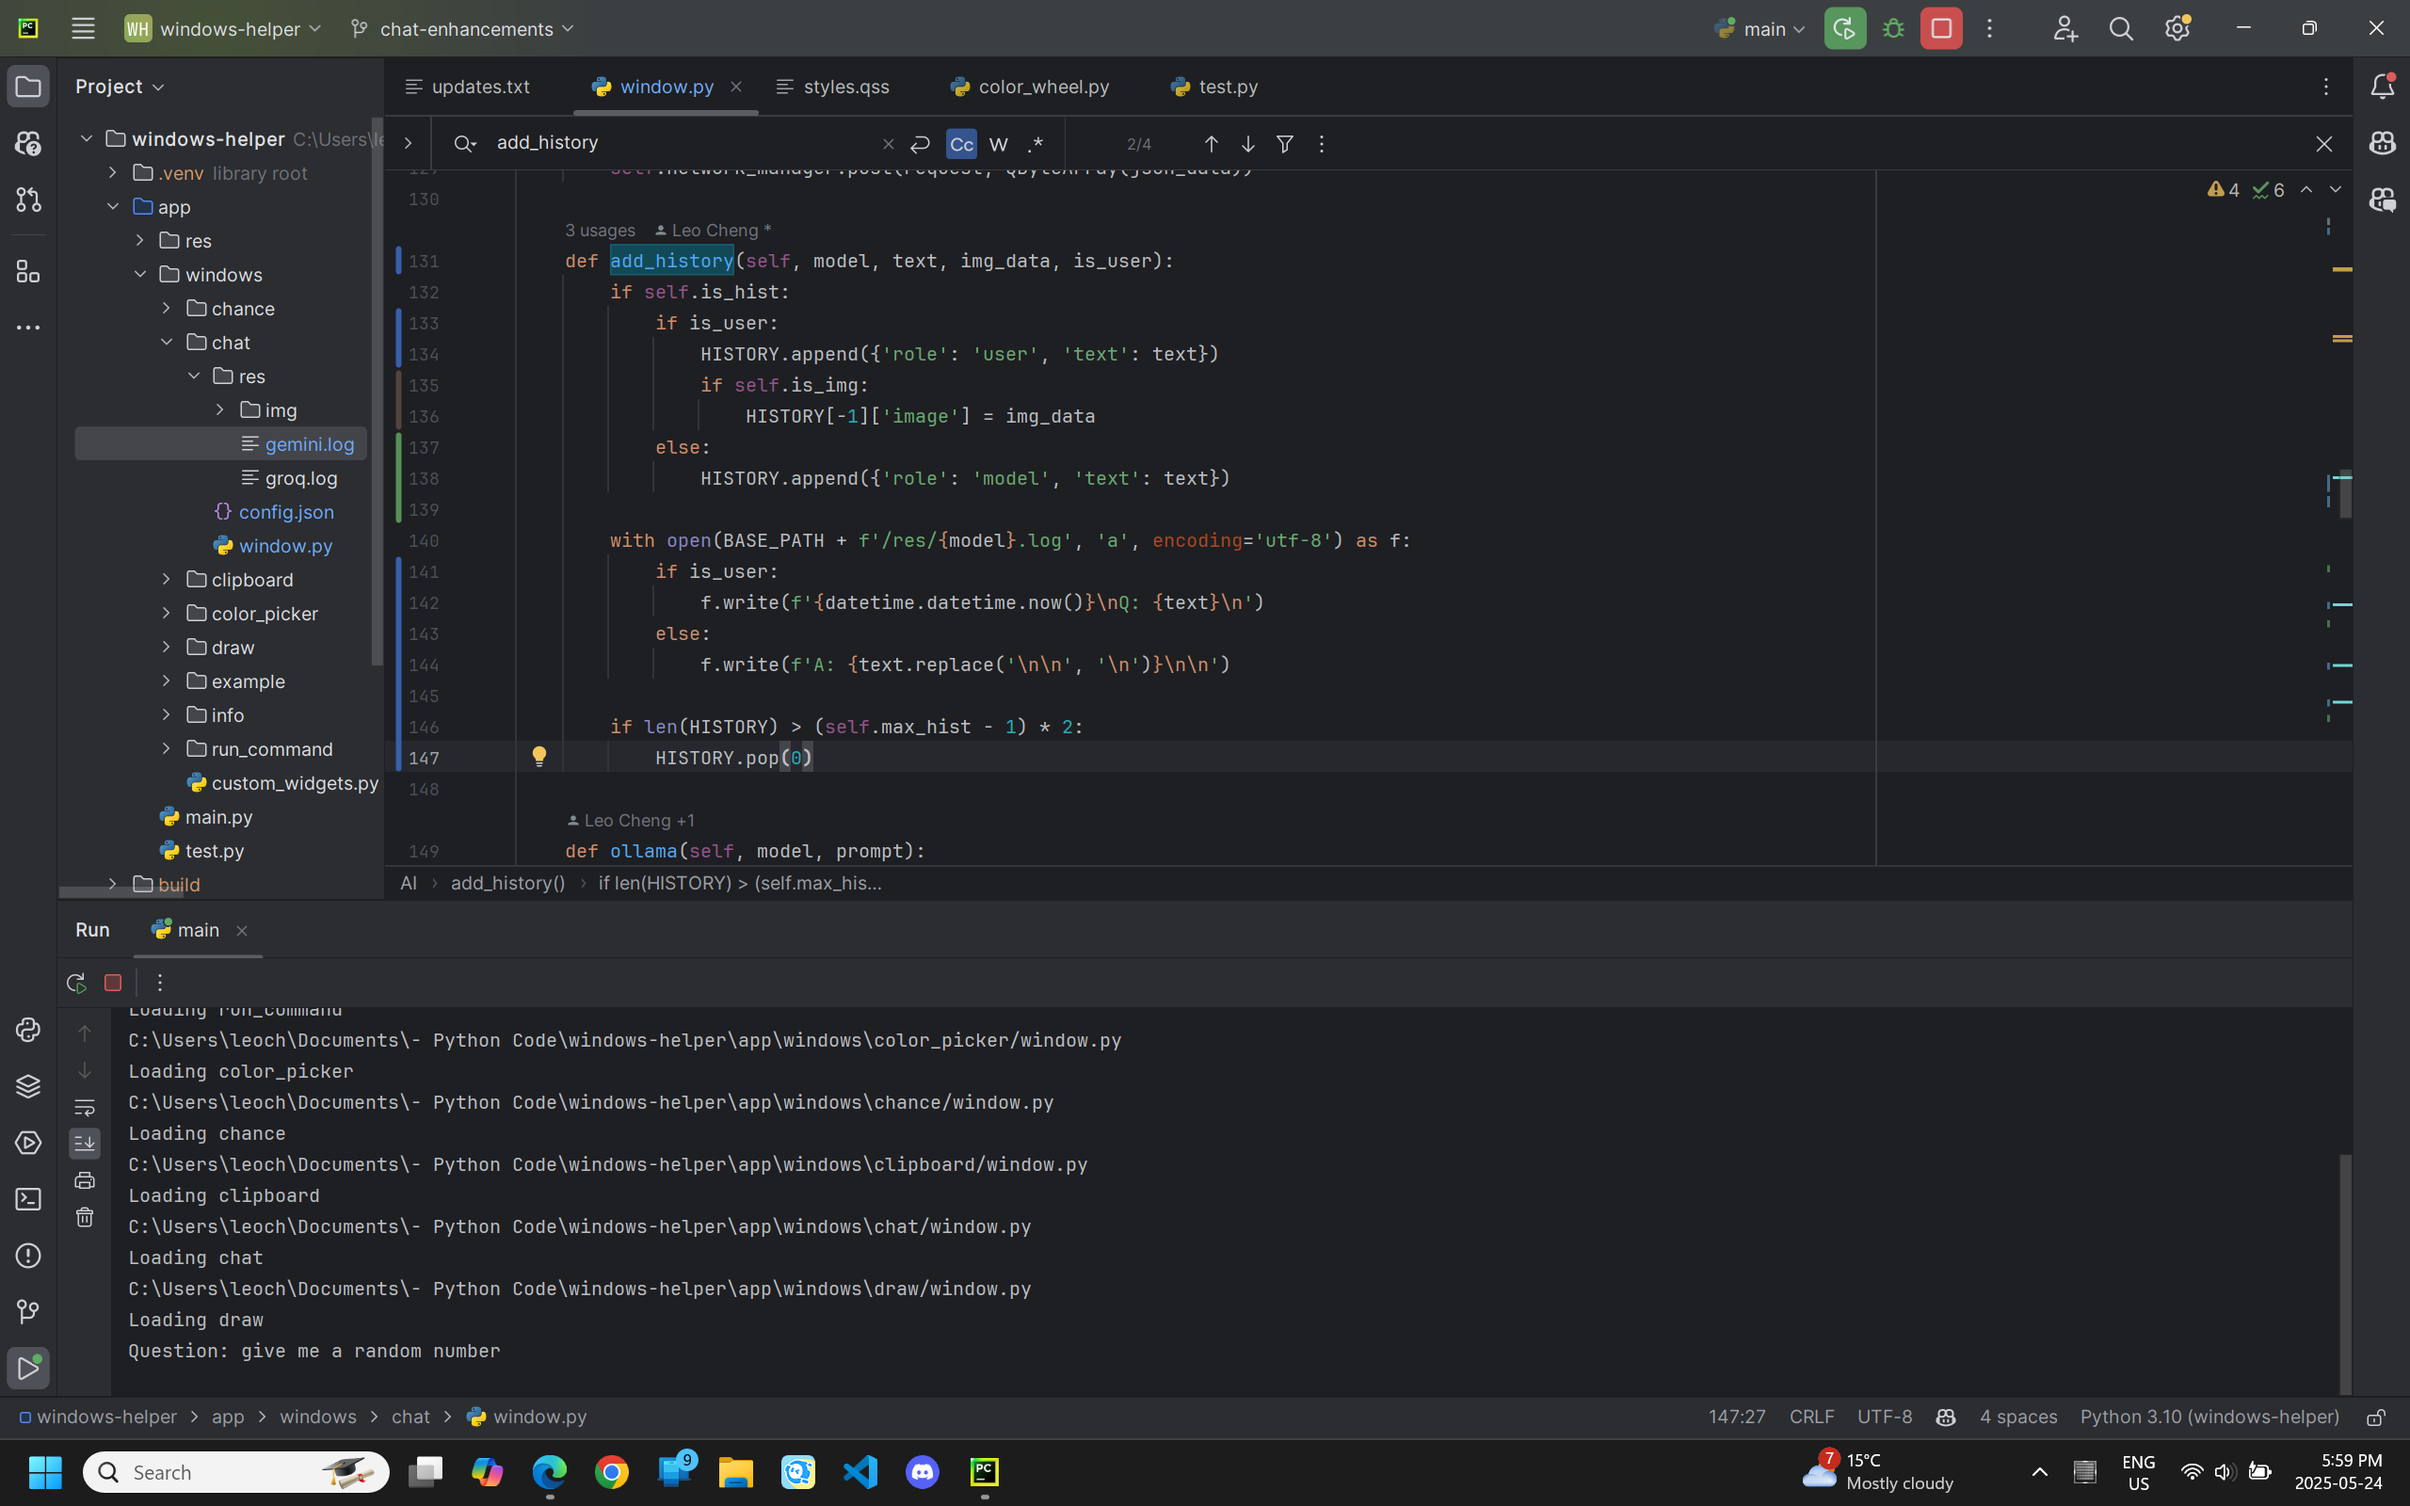
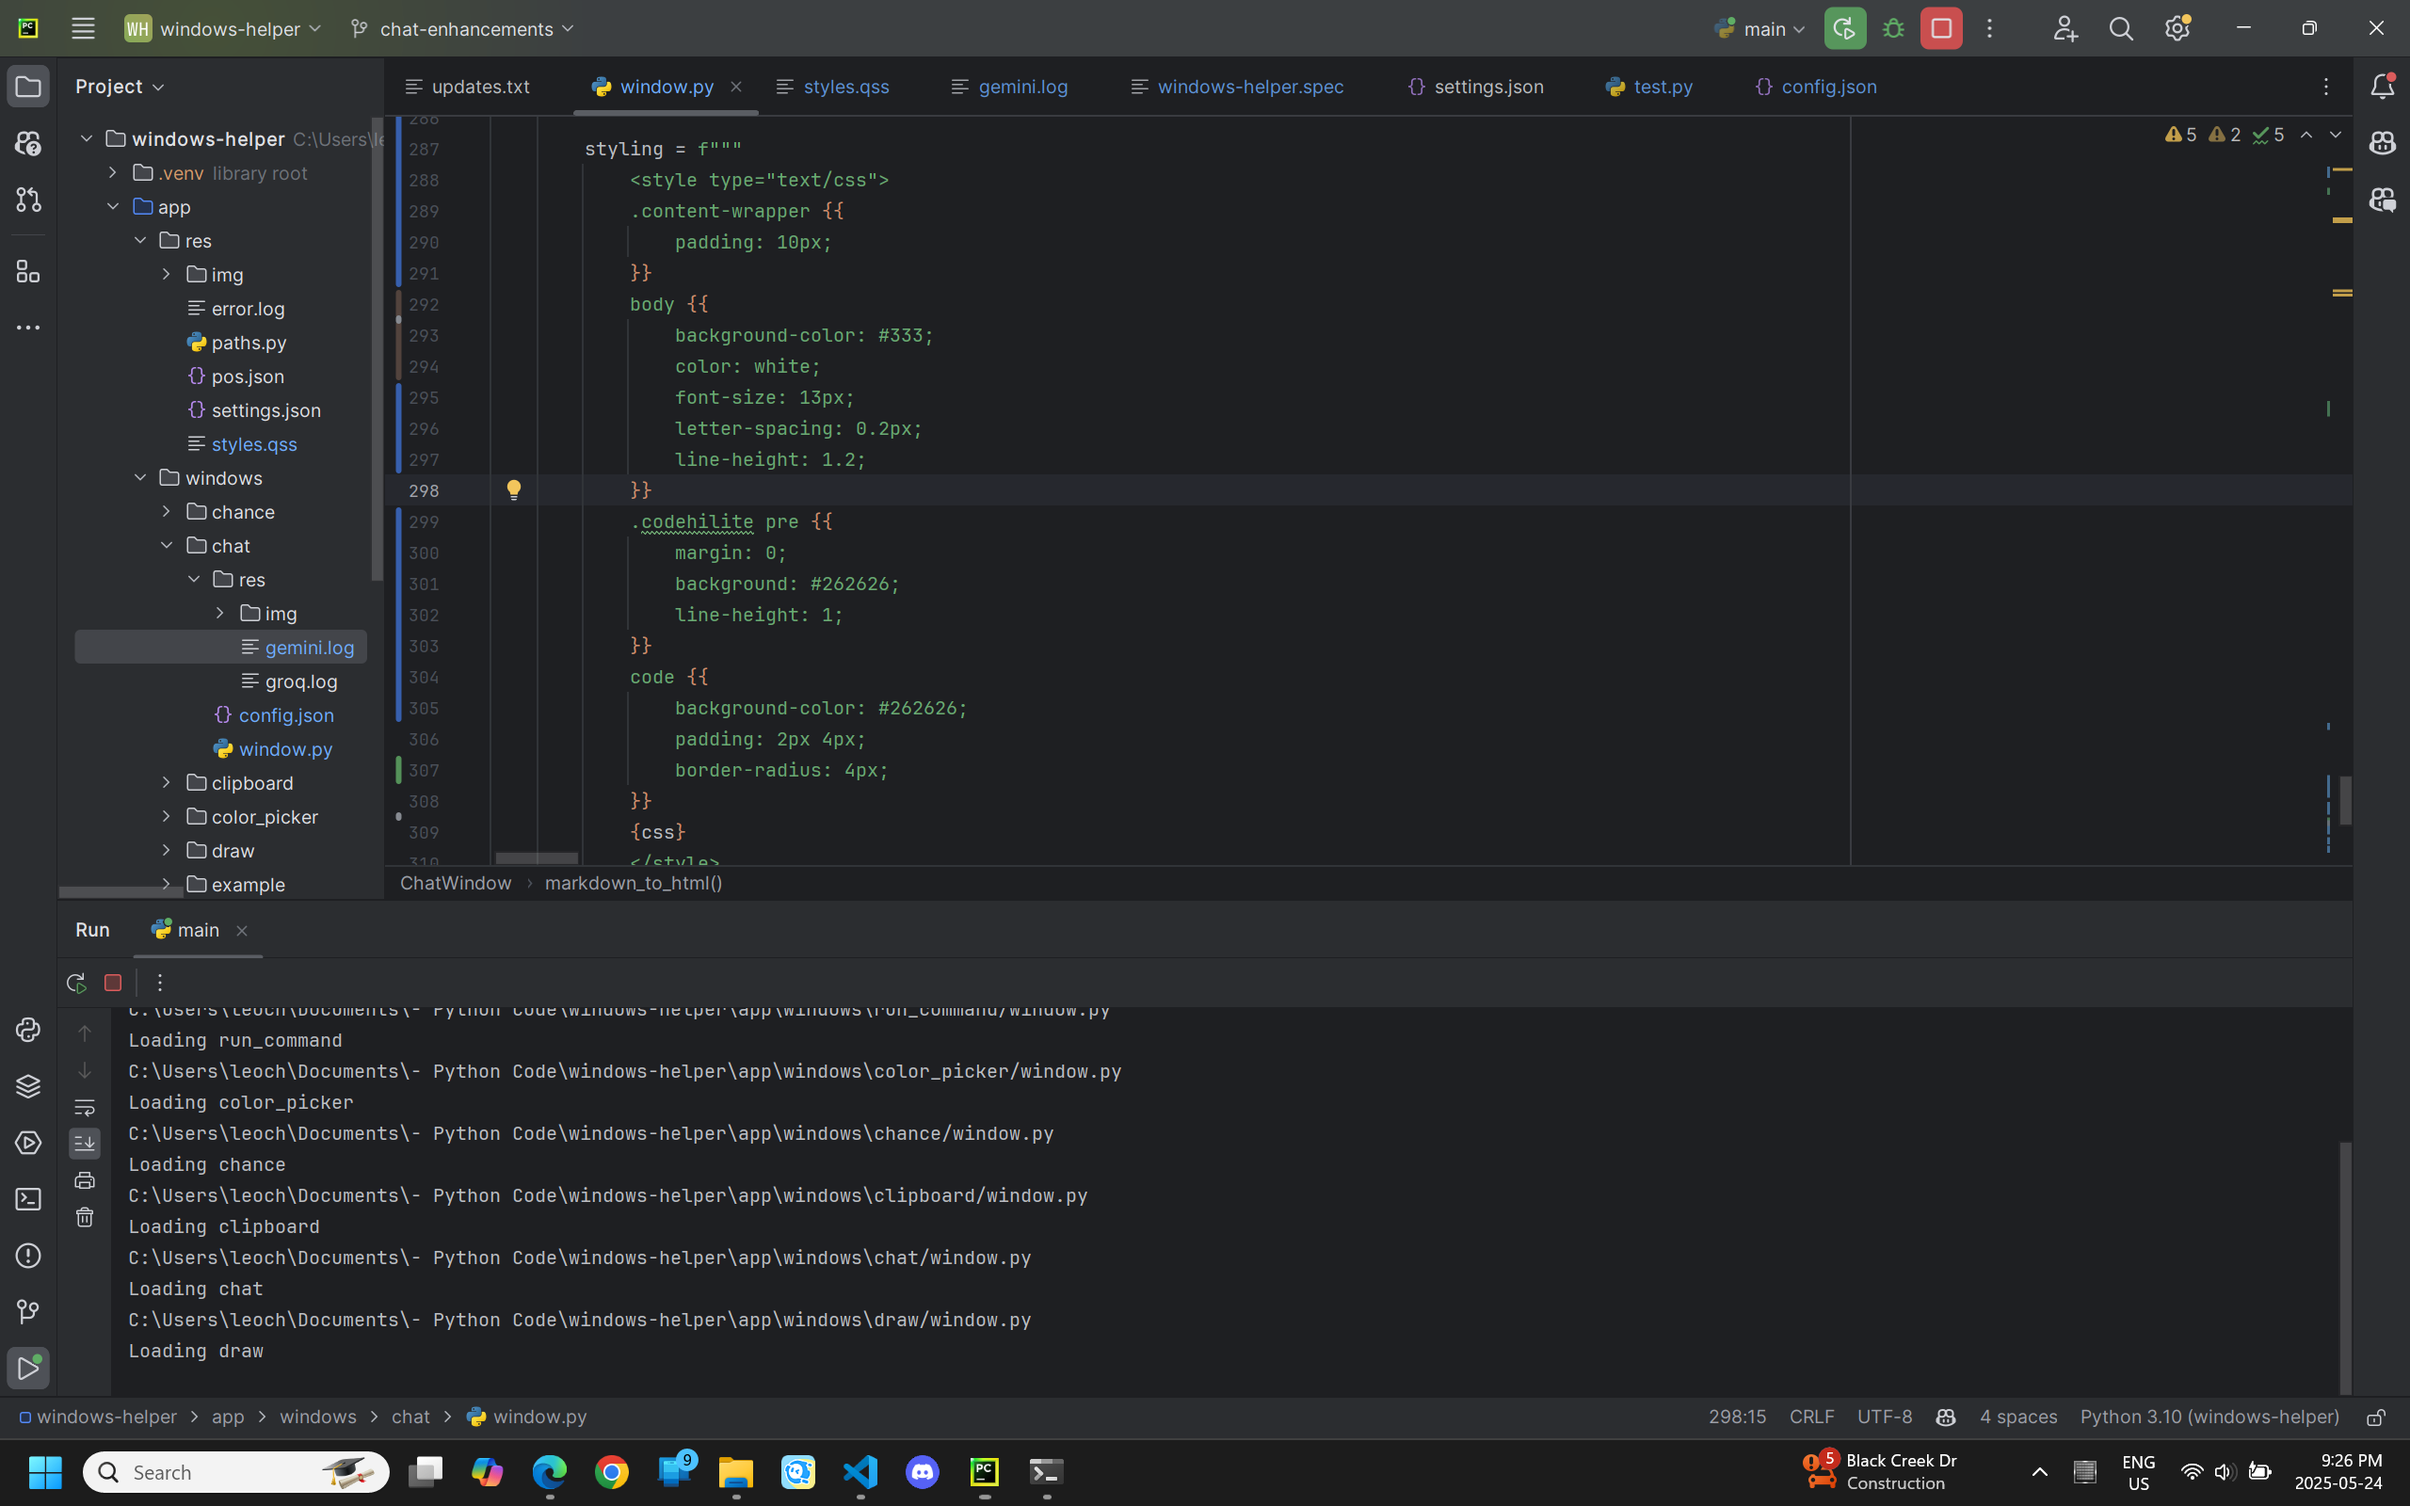
dont use WebEngineView

diff --git a/app/windows/chat/window.py b/app/windows/chat/window.py
@@ -8,8 +8,7 @@ from pygments.formatters.html import HtmlFormatter
 from PySide6.QtCore import QTimer, QRect, QUrl, QByteArray
 from PySide6.QtGui import QGuiApplication
 from PySide6.QtNetwork import QNetworkAccessManager, QNetworkRequest, QNetworkReply
-from PySide6.QtWebEngineWidgets import QWebEngineView
-from PySide6.QtWidgets import QPushButton, QComboBox, QLineEdit, QHBoxLayout, QVBoxLayout, QApplication
+from PySide6.QtWidgets import QPushButton, QComboBox, QLineEdit, QHBoxLayout, QVBoxLayout, QApplication, QTextBrowser
 
 from windows.custom_widgets import CustomWindow
 
@@ -17,6 +16,8 @@ import ollama
 
 BASE_PATH = os.path.dirname(__file__)
 HISTORY = []
+test_response = 'Here\'s a Python solution to the Two Sum problem using a hash map (dictionary) for improved efficiency:\n\n```python\nclass Solution:\n    def twoSum(self, nums: List[int], target: int) -> List[int]:\n        """\n        Finds two numbers in the input list \'nums\' that add up to the \'target\'.\n\n        Args:\n            nums: A list of integers.\n            target: The target sum.\n\n        Returns:\n            A list containing the indices of the two numbers that add up to the target.\n            Returns None if no such pair exists (though problem statement guarantees one).\n        """\n\n        num_map = {}  # Create a hash map (dictionary) to store numbers and their indices\n\n        for index, num in enumerate(nums):\n            complement = target - num  # Calculate the complement needed to reach the target\n\n            if complement in num_map:\n                # If the complement is already in the map, we found our pair!\n                return [num_map[complement], index]  # Return the indices\n\n            num_map[num] = index  # Store the number and its index in the map\n```\n\nKey improvements and explanations:\n\n* **Hash Map (Dictionary):** The solution uses a hash map (`num_map`) to store each number from the `nums` list along with its index. This is crucial for achieving O(n) time complexity.\n* **Efficiency:**  Checking if the `complement` exists in the `num_map` is an O(1) operation on average (very fast) because hash maps provide constant-time lookups.\n* **Clarity:** The code is well-commented to explain each step.\n* **Handles All Cases:** This approach correctly handles all possible test cases, including cases where the same number appears multiple times (as in Example 3), while still respecting the constraint that each input has *exactly* one solution, and you may not use the same element twice.\n\n**How it Works:**\n\n1. **Initialization:** A hash map `num_map` is created.  It will store `number: index` pairs.\n2. **Iteration:** The code iterates through the `nums` list using `enumerate` to get both the index and the value of each number.\n3. **Complement Calculation:** For each number `num`, it calculates the `complement` needed to reach the `target`: `complement = target - num`.\n4. **Hash Map Lookup:**  It checks if the `complement` already exists as a key in the `num_map`.\n   - **If the complement exists:**  This means we\'ve found two numbers that add up to the target! The index of the complement is retrieved from the `num_map`, and the current index is the other index we need. The function immediately returns a list containing these two indices.\n   - **If the complement doesn\'t exist:**  The current number `num` and its `index` are added to the `num_map` for future lookups.\n5. **Guaranteed Solution:** Because the problem states that there\'s only one valid answer, the loop will definitely find the correct pair and return the indices. There\'s no need to add any handling for "no solution found."\n\n**Example Walkthrough (nums = [2, 7, 11, 15], target = 9):**\n\n1. **Iteration 1:**\n   - `num` = 2, `index` = 0\n   - `complement` = 9 - 2 = 7\n   - `7` is not in `num_map`, so `num_map[2] = 0` is stored.\n2. **Iteration 2:**\n   - `num` = 7, `index` = 1\n   - `complement` = 9 - 7 = 2\n   - `2` is in `num_map` (because we added it in the previous iteration!).\n   - The function returns `[num_map[2], 1]` which is `[0, 1]`.\n\nThis solution is very efficient and a standard way to solve the Two Sum problem.\n'
+
 
 
 class MainWindow(CustomWindow):
@@ -111,6 +112,10 @@ class AI:
         url = headers = data = None
         self.chat_window.set_text('Loading...')
         self.chat_window.show()
+
+        if test_response:
+            self.chat_window.set_text(test_response)
+            return
 
         if model == 'ollama':
             self.ollama(d['model'], d['prompt'])
@@ -256,7 +261,9 @@ class ChatWindow(CustomWindow):
         self.g = (screen_geometry.width() - 510, screen_geometry.height() - 610, 500, 600)
         super().__init__('Chat', -1, geometry=self.g, add_close_btn=True)
 
-        self.chat_response = QWebEngineView()
+        self.chat_response = QTextBrowser()
+        self.chat_response.setOpenExternalLinks(True)
+        self.chat_response.setReadOnly(True)
         self.layout.addWidget(self.chat_response, stretch=1)
 
     def set_text(self, text):
@@ -276,41 +283,40 @@ class ChatWindow(CustomWindow):
     def markdown_to_html(md_text):
         html_body = markdown(md_text, extensions=["fenced_code", "codehilite"])
         css = HtmlFormatter(style="monokai").get_style_defs('.codehilite')
-        full_html = f"""
-            <html>
-            <head>
-            <style>
-            body {{ 
-                font-family: sans-serif; 
-                background-color: #333; 
-                color: white; 
-                font-size: 12px; 
-                letter-spacing: 0.5px;
-                line-height: 1.5;
+
+        styling = f"""
+            <style type="text/css">
+            .content-wrapper {{
+                padding: 10px;
             }}
-            ::-webkit-scrollbar {{ width: 8px; height: 8px; }}
-            ::-webkit-scrollbar-thumb {{ background-color: #555; border-radius: 4px; }}
-            ::-webkit-scrollbar-thumb:hover {{ background-color: #666; }}
-            .codehilite {{ font-size: 12px; background-color: #272822; letter-spacing: 0px }}
-            body code:not(pre code):not(.codehilite code) {{
-                background-color: #222;
+            body {{
+                background-color: #333;
+                color: white;
+                font-size: 13px;
+                letter-spacing: 0.2px;
+                line-height: 1.2;
+            }}
+            .codehilite pre {{
+                margin: 0;
+                background: #262626;
+                line-height: 1;
+            }}
+            code {{
+                background-color: #262626;
                 padding: 2px 4px;
+                border-radius: 4px;
             }}
-            .codehilite pre {{ background-color: #272822; overflow-x: auto; padding: 10px; border-radius: 4px; }}
             {css}
             </style>
-            <script>
-            function copyCode(btn) {{
-                const code = btn.nextElementSibling.innerText;
-                navigator.clipboard.writeText(code);
-                btn.innerText = "Copied!";
-                setTimeout(() => btn.innerText = "Copy", 1500);
-            }}
-            </script>
-            </head>
+        """
+
+        html_text = f"""
+            <html>
+            <head>{styling}</head>
             <body>
-            {html_body}
+                {html_body}
             </body>
             </html>
         """
-        return full_html
+
+        return html_text
